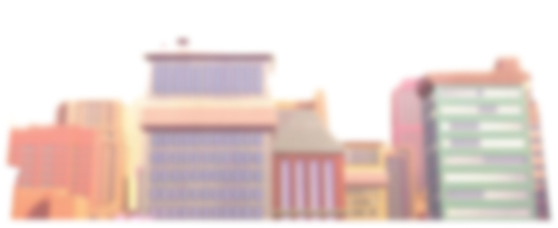
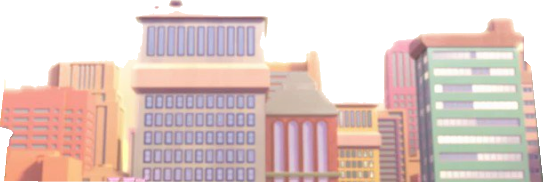
ahora tambien tuyo

diff --git a/TP4/EntregaFinal/index.html b/TP4/EntregaFinal/index.html
@@ -1,13 +1,15 @@
 <!DOCTYPE html>
 <html lang="en">
+
 <head>
     <meta charset="UTF-8">
     <meta name="viewport" content="width=device-width, initial-scale=1.0">
     <title>Document</title>
     <link rel="stylesheet" href="css/style.css">
 </head>
+
 <body>
-    
+
     <header>
         <nav>
             <div id="menu">
@@ -21,23 +23,24 @@
     </header>
 
     <div id="primera-parte">
-        
-        <img id="fondo-nubes" src="images/fondo-nubes.png" alt="">
-        <img id="edificios-izquierda" src="images/edificios-izquierda.png" alt="">
-        <img id="edificios-centro" src="images/edificios-centro.png" alt="">
-        <img id="edificios-derecha" src="images/edificios-derecha.png" alt="">
-        
+        <div style="width: 100%;height: 100%;">
+            <img id="fondo-nubes" src="images/fondo-nubes.png" alt="">
+            <img id="edificios-centro" src="images/edificios-centro.png" alt="">
+            <img id="edificios-izquierda" src="images/edificios-izquierda.png" alt="">
+            <img id="edificios-derecha" src="images/edificios-derecha.png" alt="">
+        </div>
+
         <img id="titulo" src="images/titulo.png" alt="">
 
         <img id="spider-blanco" src="images/spider-blanco.png" alt="">
         <img id="spider-rojo" src="images/spider-rojo.png" alt="">
         <img id="spider-negro" src="images/spider-negro.png" alt="">
-        
+
         <img id="tela-arania-izquierda" src="images/tela-arania-izquierda.png" alt="">
         <img id="tela-arania-derecha" src="images/tela-arania-derecha.png" alt="">
     </div>
 
-   <!--  <div id="segunda-parte">
+    <!--  <div id="segunda-parte">
         <img src="images/fondo-duende-verde.png" alt="">
     </div> -->
 
@@ -46,4 +49,5 @@
 <script src="js/menu-hamburgesa.js"></script>
 <script src="js/scroll-pos.js"></script>
 <script src="js/main.js"></script>
+
 </html>

diff --git a/TP4/EntregaFinal/css/style.css b/TP4/EntregaFinal/css/style.css
@@ -55,15 +55,17 @@ nav {
     border-radius: 111px;
     transition: transform 0.5s, opacity 0.5s, width 0.5s;
 }
-#menu div:nth-child(2){
+
+#menu div:nth-child(2) {
     left: 50%;
     transform: translateX(-50%);
 }
-#menu div:nth-child(4){
+
+#menu div:nth-child(4) {
     position: absolute;
     top: 4px;
     left: 4px;
-    border: 0px ;
+    border: 0px;
 }
 
 #comprar {
@@ -96,8 +98,8 @@ nav {
     flex-direction: column;
     align-items: center;
     position: relative;
-    width: 1280px;
-    height: 720px;
+    width: 100%;
+    height: 57vw;
     overflow-x: clip;
     margin-top: 108px;
 }
@@ -109,6 +111,7 @@ nav {
 }
 
 #titulo {
+    position: absolute;
     width: 590px;
     height: 301px;
     z-index: var(--z-index-titulo);
@@ -119,34 +122,29 @@ nav {
 #fondo-nubes {
     position: absolute;
     z-index: var(--z-index-fondo);
-    width: 1280px;
-    height: 720px;
-
+    width: 100%;
 }
 
 #edificios-izquierda {
+    width: 35.31%;
     position: absolute;
     left: -53px;
-    top: 0;
+    bottom: 10px;
     z-index: var(--z-index-entremedio);
-    width: 452px;
-    height: 720px;
 }
 
 #edificios-centro {
-    /* width: 543px; */
-    width: 586px;
-    height: 213px;
+    width: 45.78%;
     position: absolute;
-    left: 369px;
+    left: 50%;
     bottom: 16px;
     z-index: var(--z-index-entremedio);
+    transform: translateX(-50%);
 
 }
 
 #edificios-derecha {
-    width: 374px;
-    height: 727px;
+    width: 29.21%;
     position: absolute;
     right: -5px;
     bottom: 10px;
@@ -178,7 +176,9 @@ nav {
 }
 
 #primera-parte #spider-rojo {
-    left: 393px;
+    left: 50%;
+    width: 36.32%;
+    transform: translateX(-50%);
     bottom: -39px;
     z-index: var(--z-index-personajes);
     opacity: 0;
